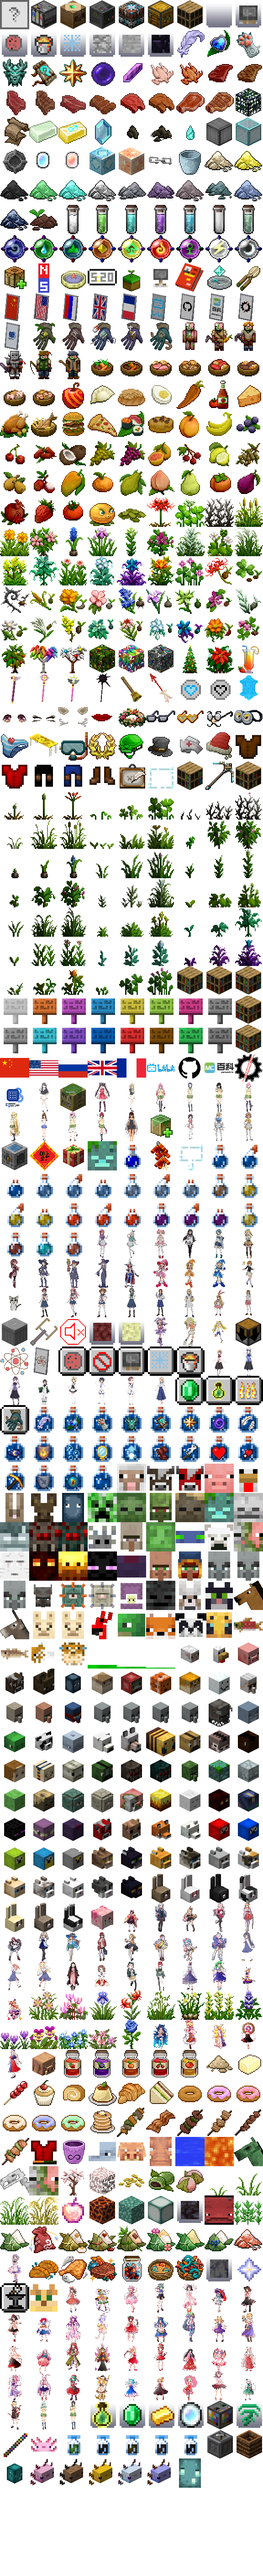
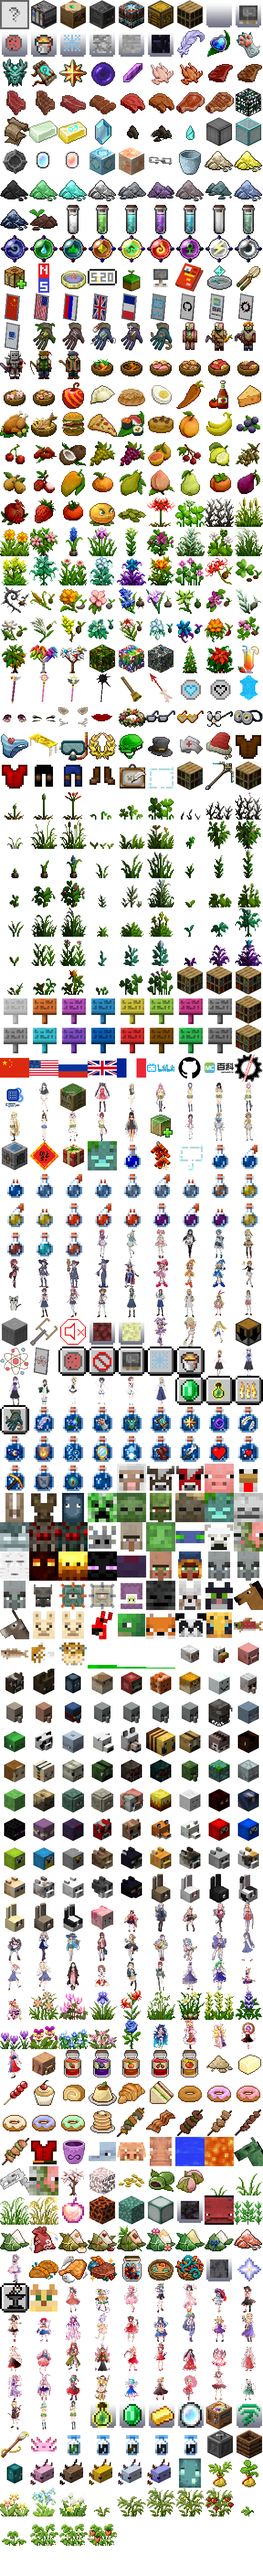
1.11.3

diff --git a/index.html b/index.html
@@ -291,10 +291,16 @@
 	<li><a href="#阿拉伯婆婆纳"><span class="ci" style="background-position: -32px -1104px;"></span> 阿拉伯婆婆纳</a></li>
 	<li><a href="#矮雪轮"><span class="ci" style="background-position: -48px -1104px;"></span> 矮雪轮</a></li>
 	<li><a href="#艾草"><span class="ci" style="background-position: -128px -1200px;"></span> 艾草</a></li>
+	<li><a href="#迎春花"><span class="ci" style="background-position: -0px -1360px;"></span> 迎春花</a></li>
+	<li><a href="#勿忘我"><span class="ci" style="background-position: -16px -1360px;"></span> 勿忘我</a></li>
 	<li><a href="#蓝色妖姬"><span class="ci" style="background-position: -64px -1104px;"></span> 蓝色妖姬</a></li>
+	<li><a href="#艾草"><span class="ci" style="background-position: -32px -1360px;"></span> 蒲公英花丛</a></li>
 	<li><a href="#圣诞树"><span class="ci" style="background-position: -96px -352px;"></span> 圣诞树</a></li>
 	<li><a href="#圣诞花"><span class="ci" style="background-position: -112px -352px;"></span> 圣诞花</a></li>
 	<li><a href="#稻谷"><span class="ci" style="background-position: -64px -1184px;"></span> 稻谷</a></li>
+</ul><ul>
+	<li><a href="#番茄幼苗"><span class="ci" style="background-position: -112px -1344px;"></span> 番茄幼苗</a></li>
+	<li><a href="#草莓幼苗"><span class="ci" style="background-position: -128px -1344px;"></span> 草莓幼苗</a></li>
 	<li><a href="#水果树树苗"><span class="ci" style="background-position: -0px -352px;"></span> 水果树树苗</a></li>
 	<li><a href="#羊毛树树苗"><span class="ci" style="background-position: -16px -352px;"></span> 羊毛树树苗</a></li>
 	<li><a href="#矿石树树苗"><span class="ci" style="background-position: -32px -352px;"></span> 矿石树树苗</a></li>
@@ -390,11 +396,11 @@
 	<th>下载地址</th><th>实现与安装方式</th></tr></thead>
 <tbody>
 	<tr>
-		<td>Java版 21w07a</td>
-		<td>v1.12-0224</td>
-		<td><a href="https://gitee.com/zhangshenxing/CraftingPlusPlus/releases/v1.12-0224">Gitee</a> |
-			<a href="https://github.com/ruhuasiyu/CraftingPlusPlus/releases/tag/v1.12-0224">GitHub</a> |
-			<a href="http://home.ustc.edu.cn/~zsxqq/craftingpp/v1.12-0224.zip">其它</a></td>
+		<td>Java版 21w08a</td>
+		<td>v1.12-0306</td>
+		<td><a href="https://gitee.com/zhangshenxing/CraftingPlusPlus/releases/v1.12-0306">Gitee</a> |
+			<a href="https://github.com/ruhuasiyu/CraftingPlusPlus/releases/tag/v1.12-0306">GitHub</a> |
+			<a href="http://home.ustc.edu.cn/~zsxqq/craftingpp/v1.12-0306.zip">其它</a></td>
 		<td rowspan="5">为数据包和资源包二合一</td>
 	</tr>
 	<tr>
@@ -406,10 +412,10 @@
 	</tr>
 	<tr>
 		<td>Java版 1.16.2-1.16.5</td>
-		<td>v1.11.2</td>
-		<td><a href="https://gitee.com/zhangshenxing/CraftingPlusPlus/releases/v1.11.2">Gitee</a> |
-			<a href="https://github.com/ruhuasiyu/CraftingPlusPlus/releases/tag/v1.11.2">GitHub</a> |
-			<a href="http://home.ustc.edu.cn/~zsxqq/craftingpp/v1.11.2.zip">其它</a></td>
+		<td>v1.11.3</td>
+		<td><a href="https://gitee.com/zhangshenxing/CraftingPlusPlus/releases/v1.11.3">Gitee</a> |
+			<a href="https://github.com/ruhuasiyu/CraftingPlusPlus/releases/tag/v1.11.3">GitHub</a> |
+			<a href="http://home.ustc.edu.cn/~zsxqq/craftingpp/v1.11.3.zip">其它</a></td>
 	</tr>
 	<tr>
 		<td>Java版 1.16-1.16.1</td>
@@ -528,7 +534,7 @@
 </figure>
 
 <h3 id="玉世界">玉世界</h3>
-<p><span class="oldversion">1.11.1</span> 玉世界生物群系固定为温暖海洋。其中受潮的的沙子下掩埋着宝箱。将珊瑚块摆放成3*4的框形并点火即可激活至玉世界的传送门。</p>
+<p><span class="oldversion">1.11.1</span> 玉世界生物群系固定为温暖海洋。其中沙子下掩埋着宝箱。将珊瑚块摆放成3*4的框形并点火即可激活至玉世界的传送门。</p>
 
 <h3 id="苦力怕地牢">苦力怕地牢</h3>
 <p><span class="oldversion">1.10</span> 原版主世界的地牢的刷怪笼有几率为苦力怕刷怪笼。</p>
@@ -3594,10 +3600,10 @@
 	<td><a class="ui black_concrete_powder" title="混凝土粉末"></a></td>
 	<td><a class="ui ci dye_stick" title="染色棒"></a></td>
 	<td><a class="ui copper_block" title="铜块"></a></td>
-	<td><a class="ui exposed_copper_block" title="受潮的铜块"></a></td>
-	<td><a class="ui weathered_copper_block" title="锈蚀铜块"></a></td>
+	<td><a class="ui exposed_copper_block" title="斑驳的铜块"></a></td>
+	<td><a class="ui weathered_copper_block" title="锈蚀的铜块"></a></td>
 	<td><a class="ui cut_copper" title="切制铜块"></a></td>
-	<td><a class="ui exposed_cut_copper" title="受潮的切制铜块"></a></td>
+	<td><a class="ui exposed_cut_copper" title="斑驳的切制铜块"></a></td>
 	<td><a class="ui weathered_cut_copper" title="锈蚀的切制铜块"></a></td>
 	<td></td>
 	<td></td>
@@ -3615,10 +3621,10 @@
 	<td><a class="ui water_bottle" title="水瓶"></a></td>
 	<td><a class="ui black_concrete" title="混凝土"></a></td>
 	<td><a class="ui ci dye_stick" title="去掉颜色的染色棒"></a></td>
-	<td><a class="ui exposed_copper_block" title="受潮的铜块"></a></td>
-	<td><a class="ui weathered_copper_block" title="锈蚀铜块"></a></td>
+	<td><a class="ui exposed_copper_block" title="斑驳的铜块"></a></td>
+	<td><a class="ui weathered_copper_block" title="锈蚀的铜块"></a></td>
 	<td><a class="ui oxidized_copper_block" title="氧化的铜块"></a></td>
-	<td><a class="ui exposed_cut_copper" title="受潮的切制铜块"></a></td>
+	<td><a class="ui exposed_cut_copper" title="斑驳的切制铜块"></a></td>
 	<td><a class="ui weathered_cut_copper" title="锈蚀的切制铜块"></a></td>
 	<td><a class="ui oxidized_cut_copper" title="氧化的切制铜块"></a></td>
 	<td></td>
@@ -4187,6 +4193,7 @@
 <p>对玩家生效的正面状态效果包括：抗火、夜视、水下呼吸、隐身、饱和、连锁，对非玩家生物生效的负面状态效果包括：虚弱、缓慢、发光、中毒、凋零、吸引(将附近的生物传送至信标增强器上方)。影响范围基于下方的信标等级，为半径=10×(等级+1)的球形区域。</p>
 <p>对已放置的信标增强器按下右键会打开机器界面，任何尝试放入容器非物品栏的物品会被返回到最近的玩家背包内。如果下方信标的下方3×3区域为X形的5个日石和4个月石，则信标和信标增强器的正面效果范围提升至全地图，负面提升至128米。</p>
 <p>吸引模式注意及时处理生物，否则可能引起苦力怕爆炸等后果导致损失。</p>
+<p><span class="version">1.12起</span> 信标增强器下方信标而不是它自身被原版红石元件强充能时会停止工作。</p>
 <p><span class="version">1.11.2起</span> 信标增强器可以加速影响范围内的机器的工作。根据信标等级，<a href="#多功能一体机">多功能一体机</a>、<a href="#交易机">交易机</a>和<a href="#生物投影仪">生物投影仪</a>的工作速度提升为原来的2、3、4、5、10倍。</p>
 <p><span class="oldversion">1.10.x-1.11.1</span> 放置/破坏信标增强器可以添加/取消当前区块常加载。</p>
 <p><span class="oldversion">1.10.x</span> 如果下方信标的下方3×3区域为X形的5个日石和4个月石，则信标和信标增强器的效果范围提升至全地图(吸引范围128米)。</p>
@@ -8700,6 +8707,16 @@
 	<td><code>cpp:artemisia_argyi</code></td>
 	<td><a class="ui green_dye" title="绿色染料"></a></td>
 </tr>
+<tr><td><a class="ui ci primrose"></a></td>
+	<th><strong id="迎春花">迎春花</strong></th>
+	<td><code>cpp:primrose</code></td>
+	<td><a class="ui orange_dye" title="橙色染料"></a></td>
+</tr>
+<tr><td><a class="ui ci forget_me_not"></a></td>
+	<th><strong id="勿忘我">勿忘我</strong></th>
+	<td><code>cpp:forget_me_not</code></td>
+	<td><a class="ui light_blue_dye" title="淡蓝色染料"></a></td>
+</tr>
 </tbody></table>
 
 <h3 id="蓝色妖姬">蓝色妖姬 <code>cpp:blue_rose</code></h3>
@@ -8720,6 +8737,26 @@
 		<a class="empty"></a>
 		<a class="ci blue_rose" title="蓝色妖姬"></a>
 		<span class="shapeless" title="此配方是无形的，材料可以以任何排列方式放置在合成格内。"></span>
+	</span></td></tr>
+</tbody></table>
+
+<h3 id="蒲公英花丛">蒲公英花丛 <code>cpp:dandelion_bush</code></h3>
+<p><span class="version">1.12起</span>可以放入花盆。</p>
+<table><thead><tr><th>材料</th>
+	<th>合成配方</th>
+</tr></thead><tbody>	
+<tr><td>蒲公英</td>
+	<td><span class="ui cm" title="合成器">
+		<a class="empty"></a>
+		<a class="empty"></a>
+		<a class="empty"></a>
+		<a class="dandelion" title="蒲公英"></a>
+		<a class="dandelion" title="蒲公英"></a>
+		<a class="dandelion" title="蒲公英"></a>
+		<a class="empty"></a>
+		<a class="empty"></a>
+		<a class="empty"></a>
+		<a class="ci dandelion_bush" title="蒲公英花丛"></a>
 	</span></td></tr>
 </tbody></table>
 
@@ -8769,6 +8806,12 @@
 <p>破坏草有几率得到稻谷，可以种植在任何土上。生长共4个阶段，完全成熟后破坏得到4份稻谷，否则只能得到1份稻谷。</p>
 <p><span class="version">1.11起</span> 必须邻近水，否则即使使用骨粉也不会生长。</p>
 <p><span class="oldversion">1.10</span> 下方如果不是耕地则会不定时弹出。下方必须是完全湿润的耕地，否则即使使用骨粉也不会生长。</p>
+
+<h3 id="番茄幼苗">番茄幼苗 <code>cpp:tomato_seedling</code></h3>
+<a class="ui ci tomato_seedling"></a><a class="ui ci tomato0"></a><a class="ui ci tomato1"></a><a class="ui ci tomato2"></a><a class="ui ci tomato3"></a><a class="ui ci tomato4"></a>
+<h3 id="草莓幼苗">草莓幼苗 <code>cpp:strawberry_seedling</code></h3>
+<a class="ui ci strawberry_seedling"></a><a class="ui ci strawberry0"></a><a class="ui ci strawberry1"></a><a class="ui ci strawberry2"></a><a class="ui ci strawberry3"></a><a class="ui ci strawberry4"></a>
+<p><span class="version">1.12起</span> 破坏草有几率得到番茄幼苗或草莓幼苗，只能种植在湿润耕地上，否则即使使用骨粉也不会生长。生长共5个阶段，完全成熟后破坏得到1~4份水果和1~4份幼苗，否则只能得到1份幼苗。</p>
 
 <h3 id="树">树</h3>
 <table><thead><tr><th>名称</th>
@@ -10587,7 +10630,7 @@
 	<a href="https://space.bilibili.com/4469715"><img src="items/bilibili.png" alt="哔哩哔哩" /></a>
 </p>
 
-<p>最后更新 2021-02-26</p>
+<p>最后更新 2021-03-06</p>
 </footer>
 
 </article>

diff --git a/items/items_css.css b/items/items_css.css
@@ -2264,6 +2264,21 @@ span.ui a.xp_orb, a.xp_orb{
 .axolotl_head_cyan                  {background-position: -128px -2688px;}
 .axolotl_head_blue                  {background-position: -160px -2688px;}
 .mob_glow_squid                     {background-position: -192px -2688px;}
+.tomato_seedling                    {background-position: -224px -2688px;}
+.strawberry_seedling                {background-position: -256px -2688px;}
+.primrose                           {background-position: -000px -2720px;}
+.forget_me_not                      {background-position: -032px -2720px;}
+.dandelion_bush                     {background-position: -064px -2720px;}
+.tomato0                            {background-position: -096px -2720px;}
+.tomato1                            {background-position: -128px -2720px;}
+.tomato2                            {background-position: -160px -2720px;}
+.tomato3                            {background-position: -192px -2720px;}
+.tomato4                            {background-position: -224px -2720px;}
+.strawberry0                        {background-position: -256px -2720px;}
+.strawberry1                        {background-position: -000px -2752px;}
+.strawberry2                        {background-position: -032px -2752px;}
+.strawberry3                        {background-position: -064px -2752px;}
+.strawberry4                        {background-position: -096px -2752px;}
 
 .speed                   {background-position: -000px -00px;}
 .slowness                {background-position: -018px -00px;}
